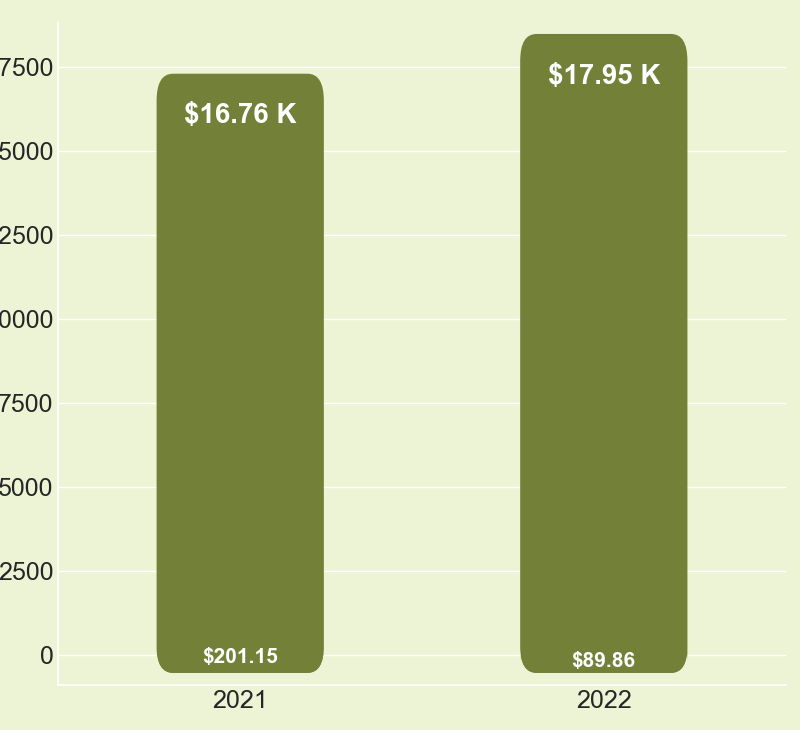
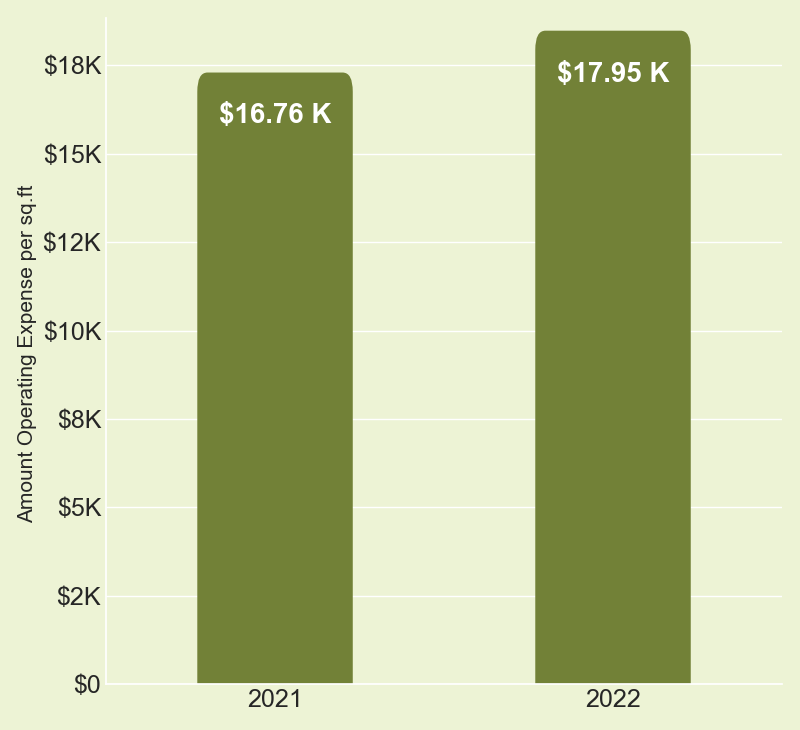
new plots after adding $

diff --git a/main_dev.py b/main_dev.py
@@ -97,6 +97,15 @@ def top_5plot():
     ax.set_ylabel('Amount Operating Expense per sq.ft ', size=15)
 
 
+    def currency(x, pos):
+        """The two args are the value and tick position"""
+        if x >= 1e6:
+            s = '${:1.1f}M'.format(x * 1e-6)
+        elif x >= 1e3:
+            s = '${:1.0f}K'.format(x * 1e-3)
+        else:
+            s = '${:1.0f}'.format(x)
+        return s
 
     def change_width(ax, new_value):
         for patch in ax.patches:
@@ -128,7 +137,7 @@ def top_5plot():
 
     for patch in new_patches:
         ax.add_patch(patch)
-
+    print('top5',new_patches)
     sns.despine(top=True, right=True)
 
     ax.tick_params(axis=u'both', which=u'both', length=0)
@@ -138,8 +147,10 @@ def top_5plot():
 
     plt.ticklabel_format(style='plain', axis='y')
     plt.rcParams["font.family"] = "Open Sans"
+    ax.yaxis.set_major_formatter(currency)
     plt.tight_layout()
     plt.savefig("top5_exp_Persqft.png")
+    new_patches.clear()
 
 def comp_YTM():
     current_first_date,last_day_of_prev_month,previous_first_date,previous_date = getdata_range_YTM()
@@ -166,12 +177,22 @@ def Expensecomp_persqft_Plot():
     lastyear_name,last_month_Expense,currentyear_name,current_month_Expense = comp_YTM()
     print(lastyear_name,last_month_Expense,currentyear_name,current_month_Expense)
 
-    x_axis = [str(lastyear_name), str(currentyear_name)]
-    y_axis = [abs(last_month_Expense), abs(current_month_Expense)]
+    x_ax = [str(lastyear_name), str(currentyear_name)]
+    y_ax = [abs(last_month_Expense), abs(current_month_Expense)]
     sns.set(rc={'axes.facecolor': '#EDF3D5', 'figure.facecolor': '#EDF3D5'})
-    ax = sns.barplot(x=x_axis, y=y_axis, joinstyle='bevel')
+    ax = sns.barplot(x=x_ax, y=y_ax, joinstyle='bevel')
     ax.set_ylabel('Amount Operating Expense per sq.ft ', size=15)
     ax.figure.set_size_inches(8, 7.3)
+
+    def currency(x, pos):
+        """The two args are the value and tick position"""
+        if x >= 1e6:
+            s = '${:1.1f}M'.format(x * 1e-6)
+        elif x >= 1e3:
+            s = '${:1.0f}K'.format(x * 1e-3)
+        else:
+            s = '${:1.0f}'.format(x)
+        return s
 
     def change_width(ax, new_value):
         for patch in ax.patches:
@@ -192,41 +213,43 @@ def Expensecomp_persqft_Plot():
     for patch in reversed(ax.patches):
 
         bb = patch.get_bbox()
-
         p_bbox = FancyBboxPatch((bb.xmin, bb.ymin),
                                 abs(bb.width), abs(bb.height),
-                                boxstyle="round, pad=0.030,rounding_size = 0.055",
+                                boxstyle="round, pad=0.030,rounding_size = 0.030",
                                 ec="none", fc='#728137',
                                 mutation_aspect=mut_Aspect
                                 )
+
         patch.remove()
         new_patches.append(p_bbox)
 
     for patch in new_patches:
         ax.add_patch(patch)
-
+    print('comparsion', new_patches)
     sns.despine(top=True, right=True)
 
     ax.tick_params(axis=u'both', which=u'both', length=0)
     if abs(current_month_Expense) > 1000000 or abs(last_month_Expense) > 1000000:
-        for index, value in enumerate(y_axis):
+        for index, value in enumerate(y_ax):
             plt.text(index, value // 1.02, '$' + str(round(value / 1000000, 2)) + ' M', fontfamily='Open Sans',
                      fontsize=20, ha='center', va='top',
                      color='white', weight='bold')
     else:
-        for index, value in enumerate(y_axis):
+        for index, value in enumerate(y_ax):
             plt.text(index, value // 1.02, '$' + str(round(value / 1000, 2)) + ' K', fontsize=20, ha='center',
                      va='top',
                      color='white', weight='bold')
     plt.tick_params(labelsize=18)
     plt.ticklabel_format(style='plain', axis='y')
     plt.rcParams["font.family"] = "Open Sans"
+    ax.yaxis.set_major_formatter(currency)
     plt.tight_layout()
     plt.savefig('YTM_COMPARISON.png')
 
 
 
 if __name__ == "__main__":
-    top_5plot()
+    # top_5plot()
     Expensecomp_persqft_Plot()
+
 
